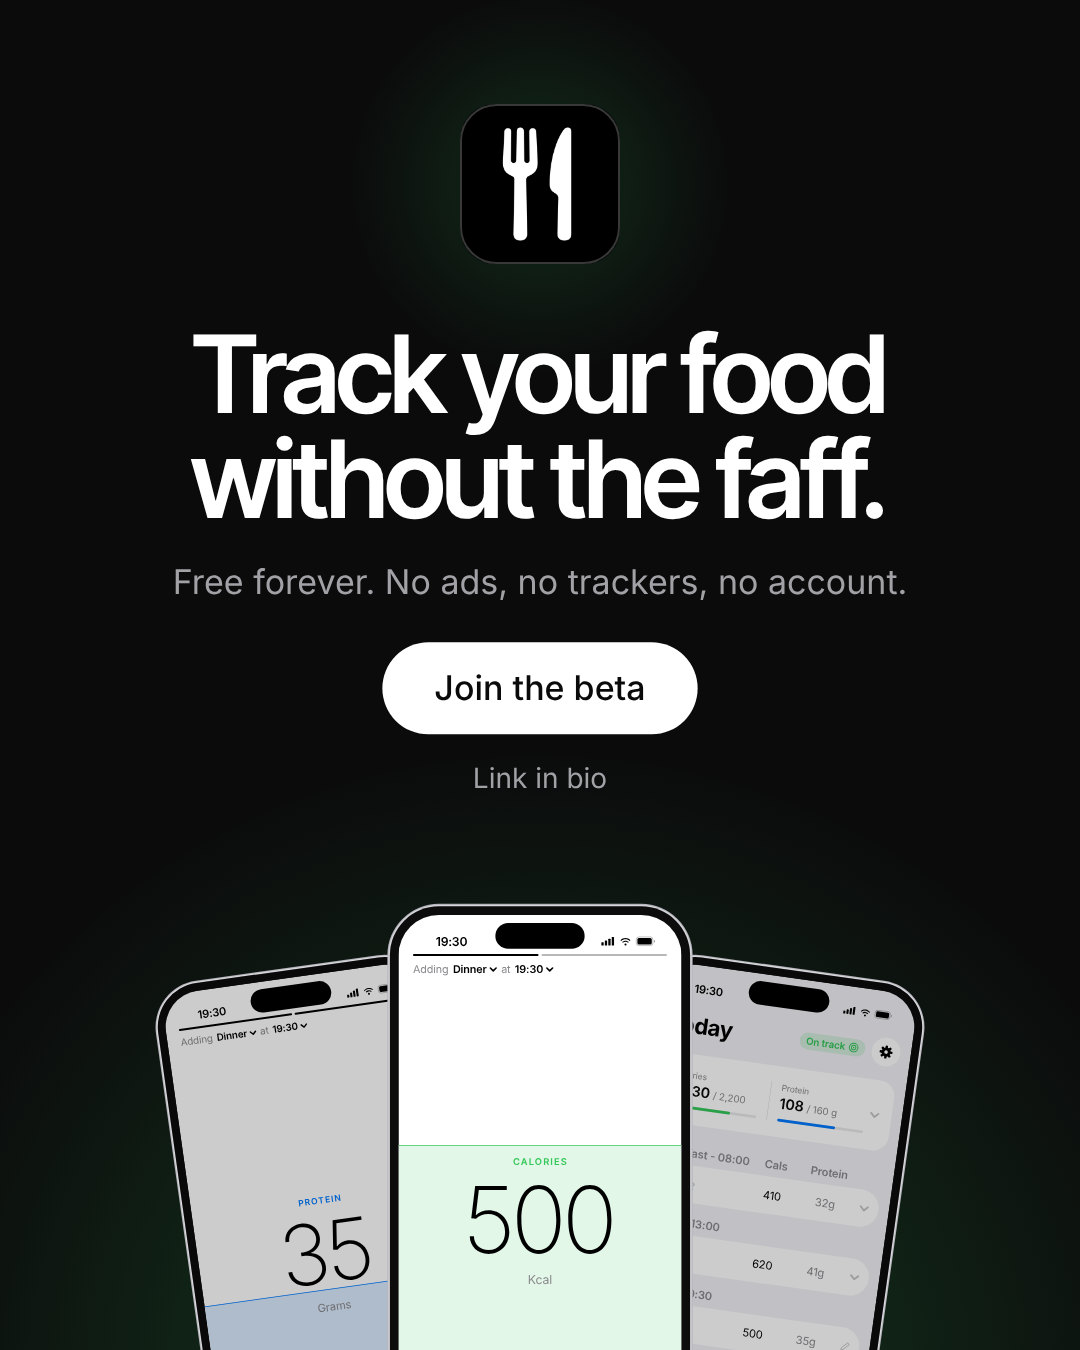
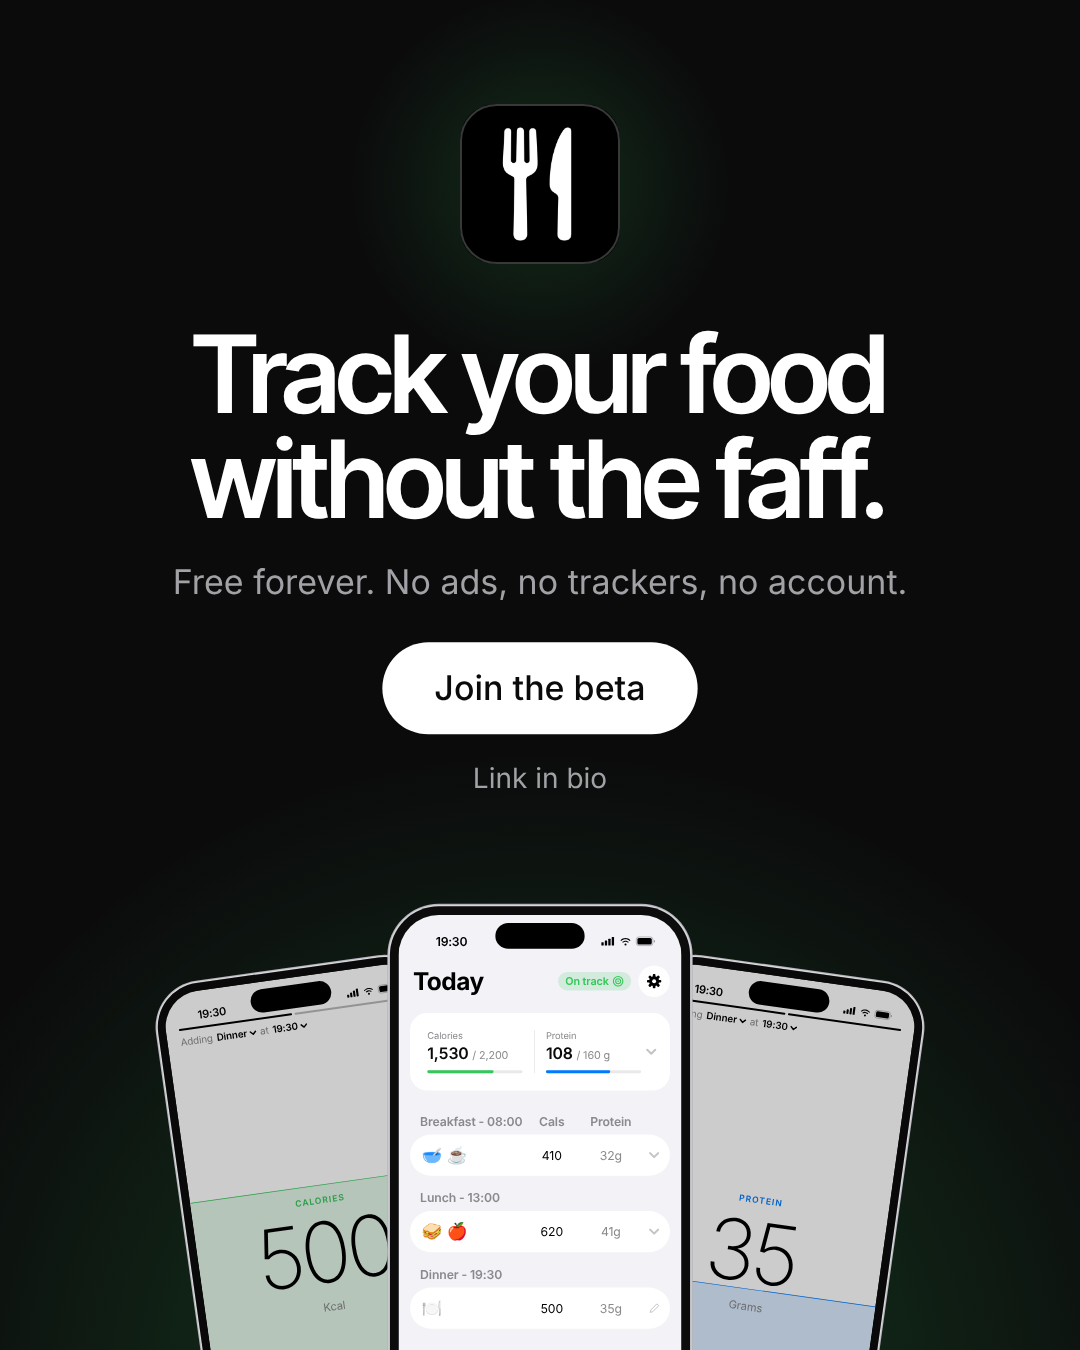
Put the Today summary in front in the closing phones
On the site's closing section and the carousel's last slide, the day's
summary is now the centre phone, with the calories and protein drag
screens tucked behind it on the left and right.

Claude-Session: https://claude.ai/code/session_01Uh1X8FuQRyU1AfUTYksqK3

diff --git a/instagram/README.md b/instagram/README.md
@@ -47,4 +47,4 @@ Colours are the site's: ink `#0a0a0a`, muted `#6e6e73`, faint `#a1a1a6`, surface
 2. "Roughly right every day beats perfectly right for a week." Two hand-drawn lines of loops, like joined-up handwriting. A loose green line, every loop a little different, keeps going past the edge; a neat grey line of seven identical loops stops with a full stop. "Close enough, kept up."
 3. "14 steps." A typical tracker logging one homemade spag bol for four. A progress bar of fourteen segments, on step 3: "Pick the right match". The phone shows a long list of near-identical beef mince results.
 4. "2 steps." The same spag bol in Macro: drag to 500 calories, drag to 35 grams of protein, done. "We do the rest." The phone shows the day with carbs and fat estimated.
-5. The Macro app icon. "Track your food without the faff." Free forever, no ads, no trackers, no account. A "Join the beta" button, link in bio. Below, three iPhones: calories in front, protein and the day's meals tucked behind.
+5. The Macro app icon. "Track your food without the faff." Free forever, no ads, no trackers, no account. A "Join the beta" button, link in bio. Below, three iPhones: the day's meals in front, the calories and protein drags tucked behind either side.
